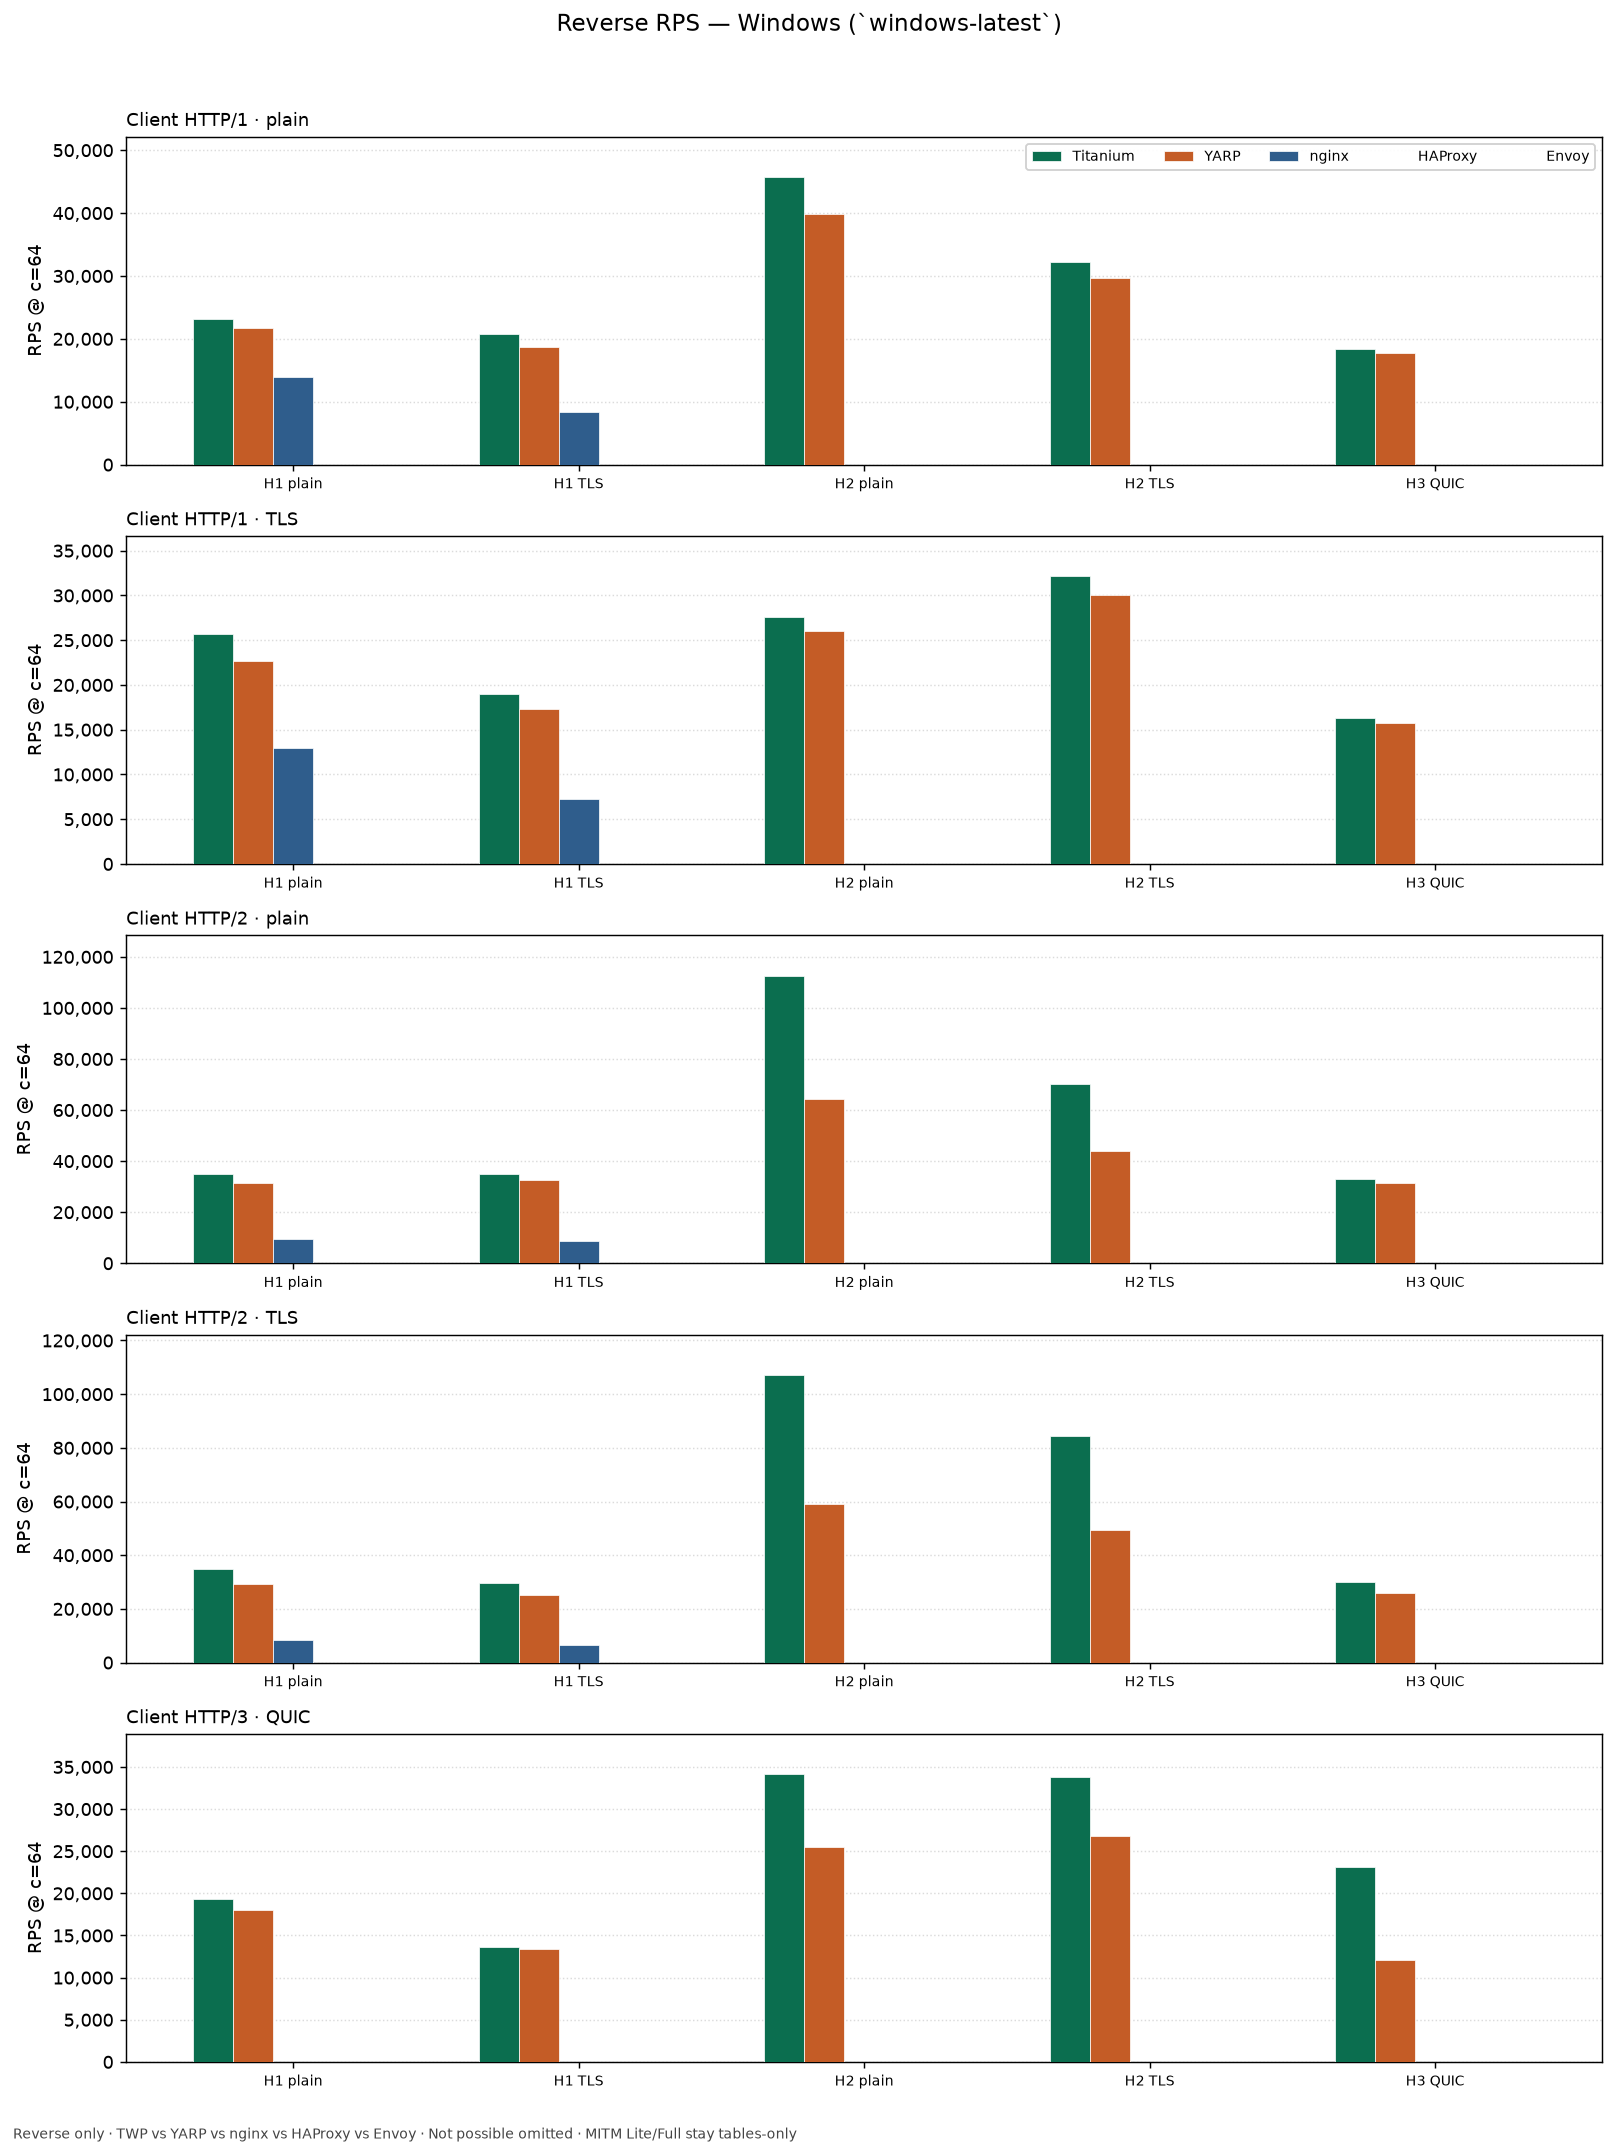
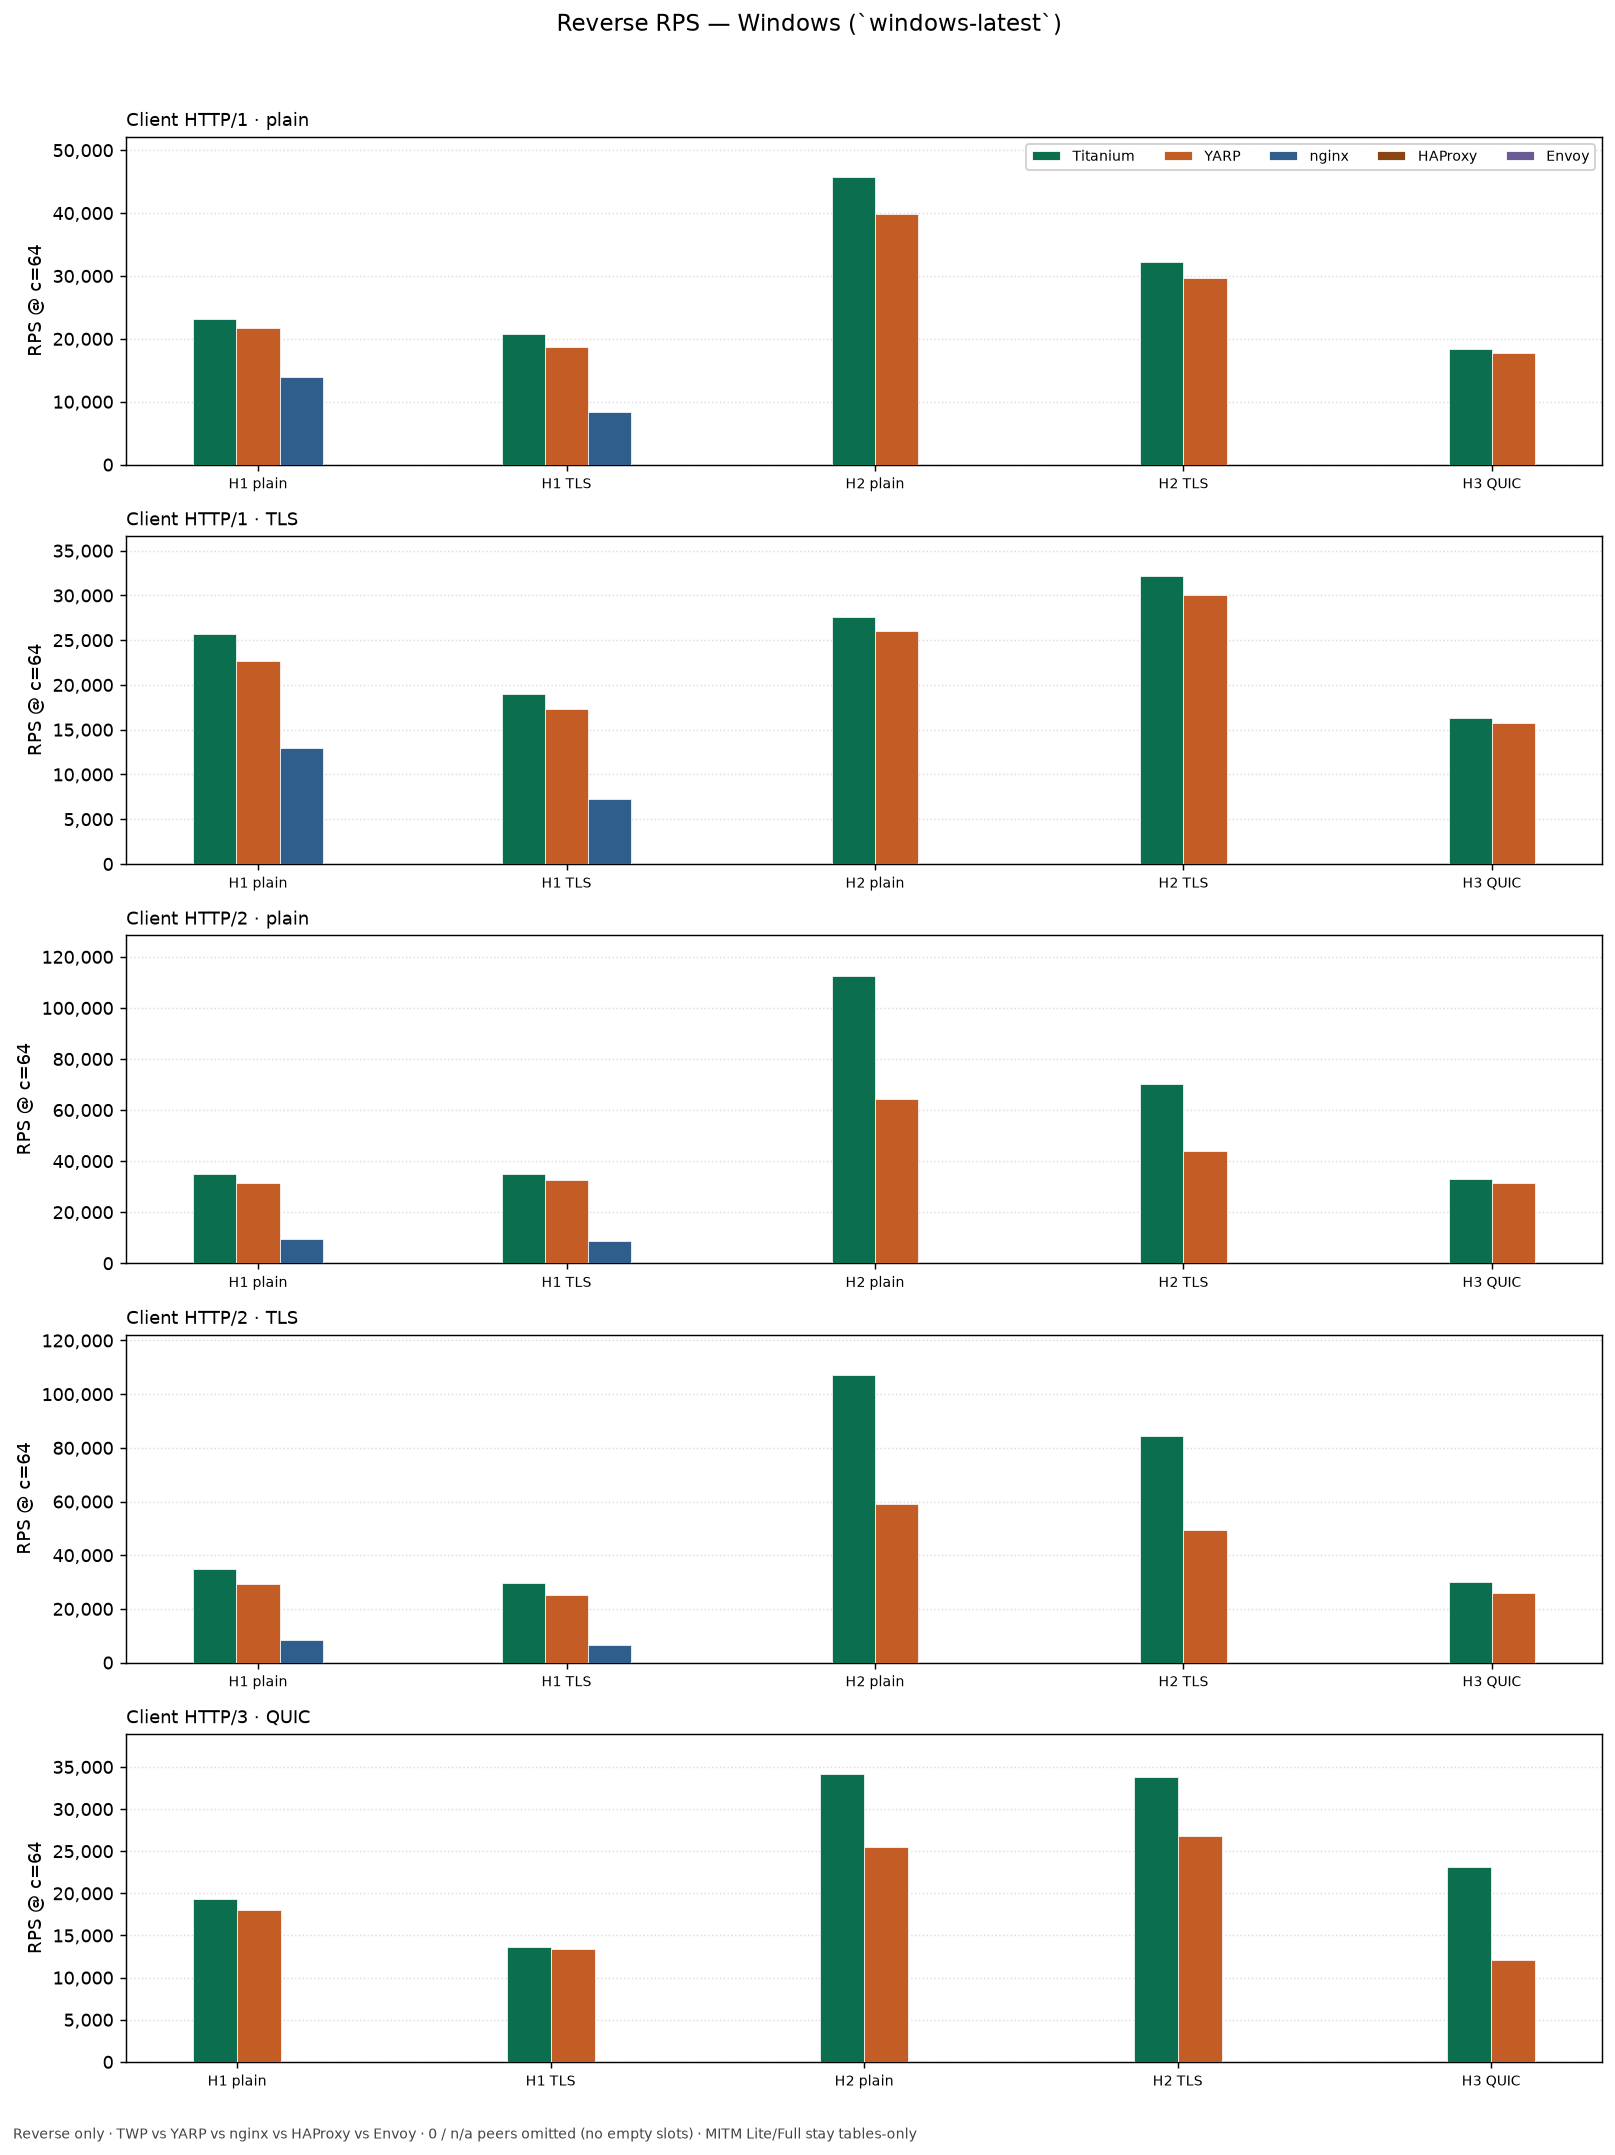
Pack chart bars: omit 0 / n/a peers so clusters have no empty slots.
Practical, product-matrix, and heavier renderers center only measured
proxies per cluster instead of reserving five fixed offsets.

diff --git a/tools/RpsLoadProbe/render-practical-charts.py b/tools/RpsLoadProbe/render-practical-charts.py
@@ -138,8 +138,8 @@ OS_SPECS = (
 
 MERGED_FOOTER = (
     "Wires: tiny keep-alive GET · Workloads: POST / WS / gRPC (RPC/s) from compare-post / "
-    "compare-arch / compare-grpc · GHA 4-core · missing bars = n/a · do not compare absolute "
-    "RPS across clusters (shards)"
+    "compare-arch / compare-grpc · GHA 4-core · 0 / n/a peers omitted (no empty slots) · "
+    "do not compare absolute RPS across clusters (shards)"
 )
 
 
@@ -148,6 +148,64 @@ def median(vals: Sequence[float]) -> Optional[float]:
         return None
     s = sorted(vals)
     return s[(len(s) - 1) // 2]
+
+
+def plot_packed_product_bars(
+    ax,
+    series: Dict[str, List[Optional[float]]],
+    x,
+    *,
+    products: Sequence[str] = PRODUCTS,
+    colors: Optional[Dict[str, str]] = None,
+    bar_width: float = 0.14,
+    legend_once: bool = True,
+    add_legend_labels: bool = True,
+) -> float:
+    """Draw per-cluster packed bars; omit None and <=0 so no empty slots remain.
+
+    Bars for the peers that measured are centered on each cluster's x position.
+    """
+    palette = colors or COLORS
+    labeled: set = set()
+    ymax = 1.0
+    for i, xi in enumerate(x):
+        present: List[Tuple[str, float]] = []
+        for product in products:
+            vals = series.get(product)
+            if not vals or i >= len(vals):
+                continue
+            v = vals[i]
+            if v is None:
+                continue
+            h = float(v)
+            if h <= 0:
+                continue
+            present.append((product, h))
+        n = len(present)
+        if n == 0:
+            continue
+        start = float(xi) - (n - 1) * bar_width / 2.0
+        for j, (product, h) in enumerate(present):
+            label = None
+            if add_legend_labels:
+                if legend_once:
+                    if product not in labeled:
+                        label = product
+                        labeled.add(product)
+                else:
+                    label = product
+            ax.bar(
+                start + j * bar_width,
+                h,
+                bar_width,
+                label=label,
+                color=palette[product],
+                edgecolor="white",
+                linewidth=0.4,
+                zorder=3,
+            )
+            ymax = max(ymax, h)
+    return ymax
 
 
 def arm_sustain_c64(csv_path: Path, arm: str) -> Optional[float]:
@@ -317,32 +375,10 @@ def render_chart(
 
     labels = list(labels) if labels is not None else [a[0] for a in PRACTICAL_ARMS]
     x = np.arange(len(labels), dtype=float)
-    width = 0.14
-    offsets = tuple((i - 2) * width for i in range(5))
 
     fig_w = 16.0 if len(labels) >= 10 else 14.5
     fig, ax = plt.subplots(figsize=(fig_w, 5.4), dpi=140)
-    ymax = 1.0
-    for product, offset in zip(PRODUCTS, offsets):
-        vals = series[product]
-        heights = [0.0 if v is None else float(v) for v in vals]
-        present = [v is not None for v in vals]
-        # Hide missing bars (n/a cells) by setting height 0 and no edge; hatch optional.
-        bars = ax.bar(
-            x + offset,
-            [h if p else 0.0 for h, p in zip(heights, present)],
-            width,
-            label=product,
-            color=COLORS[product],
-            edgecolor="white",
-            linewidth=0.4,
-            zorder=3,
-        )
-        for bar, p, h in zip(bars, present, heights):
-            if not p:
-                bar.set_visible(False)
-            elif h > 0:
-                ymax = max(ymax, h)
+    ymax = plot_packed_product_bars(ax, series, x)
 
     if workload_start is not None and 0 < workload_start < len(labels):
         ax.axvline(

diff --git a/tools/RpsLoadProbe/render-product-matrix-charts.py b/tools/RpsLoadProbe/render-product-matrix-charts.py
@@ -33,6 +33,7 @@ _spec.loader.exec_module(_mod)
 arm_sustain_union = _mod.arm_sustain_union
 find_csvs = _mod.find_csvs
 parse_path_list = _mod.parse_path_list
+plot_packed_product_bars = _mod.plot_packed_product_bars
 COLORS = _mod.COLORS
 PRODUCTS = _mod.PRODUCTS
 
@@ -242,8 +243,6 @@ def render_os(
         fontsize=13,
         y=0.995,
     )
-    width = 0.14
-    offsets = tuple((i - 2) * width for i in range(5))
 
     by_client: Dict[str, List[Tuple[str, Optional[float], Optional[float], Optional[float], Optional[float], Optional[float]]]] = {
         c: [] for c in CLIENTS
@@ -268,26 +267,7 @@ def render_os(
             "Envoy": [r[4] for r in ordered],
             "YARP": [r[5] for r in ordered],
         }
-        ymax = 1.0
-        for product, offset in zip(PRODUCTS, offsets):
-            vals = series[product]
-            heights = [0.0 if v is None else float(v) for v in vals]
-            present = [v is not None for v in vals]
-            bars = ax.bar(
-                x + offset,
-                [h if p else 0.0 for h, p in zip(heights, present)],
-                width,
-                label=product if ax is axes[0] else None,
-                color=COLORS[product],
-                edgecolor="white",
-                linewidth=0.4,
-                zorder=3,
-            )
-            for bar, p, h in zip(bars, present, heights):
-                if not p:
-                    bar.set_visible(False)
-                elif h > 0:
-                    ymax = max(ymax, h)
+        ymax = plot_packed_product_bars(ax, series, x, add_legend_labels=False)
         ax.set_title(f"Client {client}", loc="left", fontsize=10)
         ax.set_xticks(x)
         ax.set_xticklabels(labels, fontsize=8)
@@ -297,11 +277,20 @@ def render_os(
         ax.grid(axis="y", linestyle=":", alpha=0.45, zorder=0)
         ax.set_axisbelow(True)
 
-    axes[0].legend(loc="upper right", framealpha=0.92, ncols=5, fontsize=8)
+    # Stable legend: one proxy entry each, even if first panel omitted some peers.
+    from matplotlib.patches import Patch
+
+    axes[0].legend(
+        handles=[Patch(facecolor=COLORS[p], edgecolor="white", label=p) for p in PRODUCTS],
+        loc="upper right",
+        framealpha=0.92,
+        ncols=5,
+        fontsize=8,
+    )
     fig.text(
         0.01,
         0.004,
-        "Reverse only · TWP vs YARP vs nginx vs HAProxy vs Envoy · Not possible omitted · MITM Lite/Full stay tables-only",
+        "Reverse only · TWP vs YARP vs nginx vs HAProxy vs Envoy · 0 / n/a peers omitted (no empty slots) · MITM Lite/Full stay tables-only",
         fontsize=8,
         color="#444444",
     )

diff --git a/tools/RpsLoadProbe/render-heavier-charts.py b/tools/RpsLoadProbe/render-heavier-charts.py
@@ -30,6 +30,7 @@ _spec.loader.exec_module(_mod)
 arm_sustain_union = _mod.arm_sustain_union
 find_csvs = _mod.find_csvs
 parse_path_list = _mod.parse_path_list
+plot_packed_product_bars = _mod.plot_packed_product_bars
 COLORS = _mod.COLORS
 PRODUCTS = _mod.PRODUCTS
 
@@ -333,30 +334,8 @@ def render_chart(
     import numpy as np
 
     x = np.arange(len(labels), dtype=float)
-    width = 0.14
-    offsets = tuple((i - 2) * width for i in range(5))
-
     fig, ax = plt.subplots(figsize=(14.5, 5.4), dpi=140)
-    ymax = 1.0
-    for product, offset in zip(PRODUCTS, offsets):
-        vals = series[product]
-        heights = [0.0 if v is None else float(v) for v in vals]
-        present = [v is not None for v in vals]
-        bars = ax.bar(
-            x + offset,
-            [h if p else 0.0 for h, p in zip(heights, present)],
-            width,
-            label=product,
-            color=COLORS[product],
-            edgecolor="white",
-            linewidth=0.4,
-            zorder=3,
-        )
-        for bar, p, h in zip(bars, present, heights):
-            if not p:
-                bar.set_visible(False)
-            elif h > 0:
-                ymax = max(ymax, h)
+    ymax = plot_packed_product_bars(ax, series, x)
 
     ax.set_ylabel("Sustain RPS @ concurrency 64")
     ax.set_title(chart_title)
@@ -459,8 +438,7 @@ def main() -> int:
             if suffix:
                 chart_title = f"{chart_title} {suffix}"
             footer = (
-                "Heavier reverse workloads · GHA 4-core · missing bars = Not possible · "
-                "SLO-miss sustain plotted as 0"
+                "Heavier reverse workloads · GHA 4-core · 0 / n/a peers omitted (no empty slots)"
             )
             if not include_he:
                 footer += " · Windows: no HAProxy/Envoy official port"
